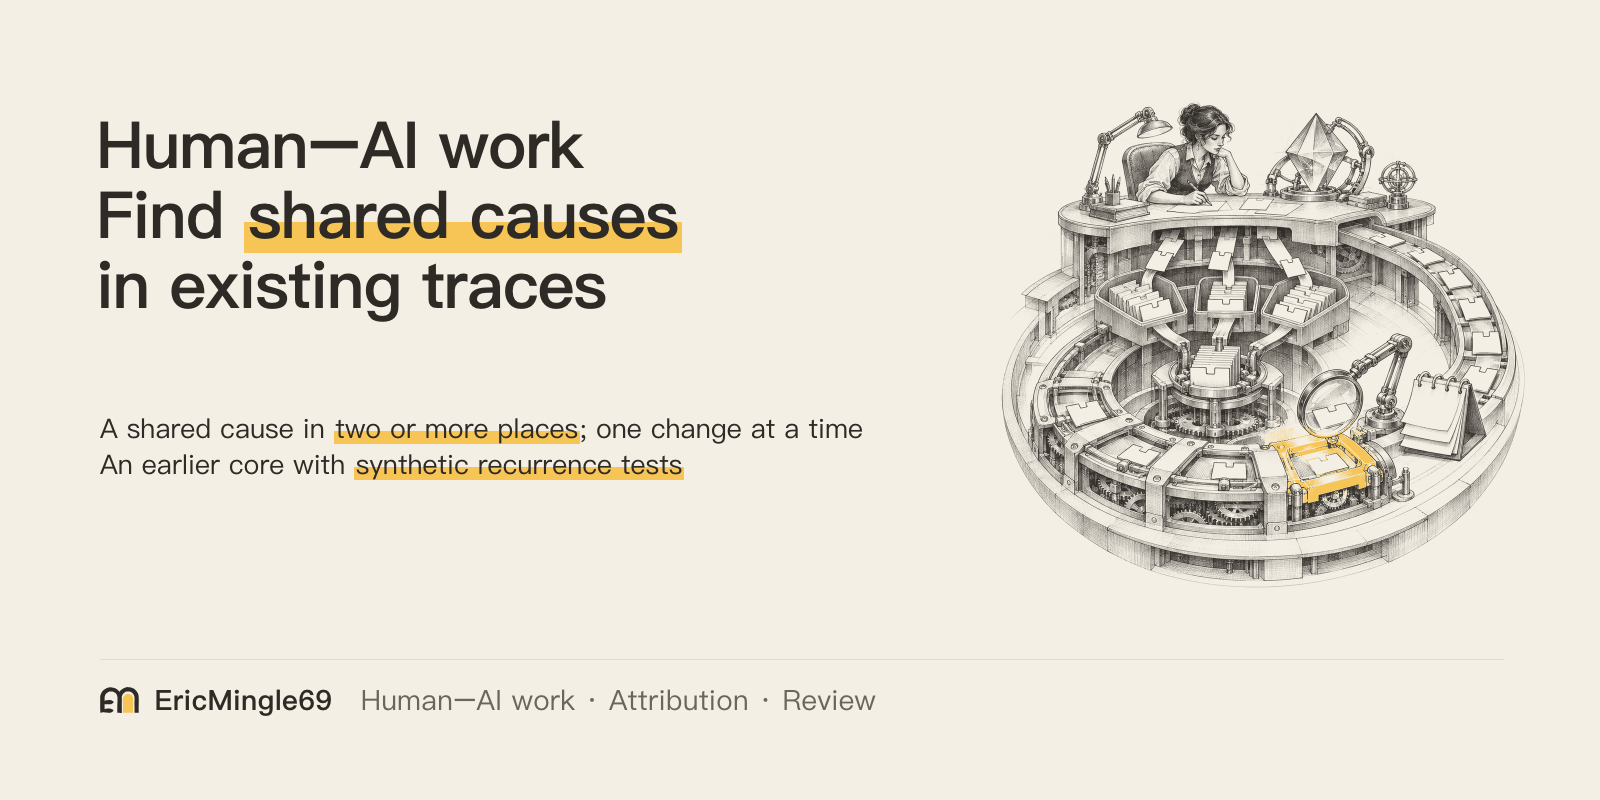
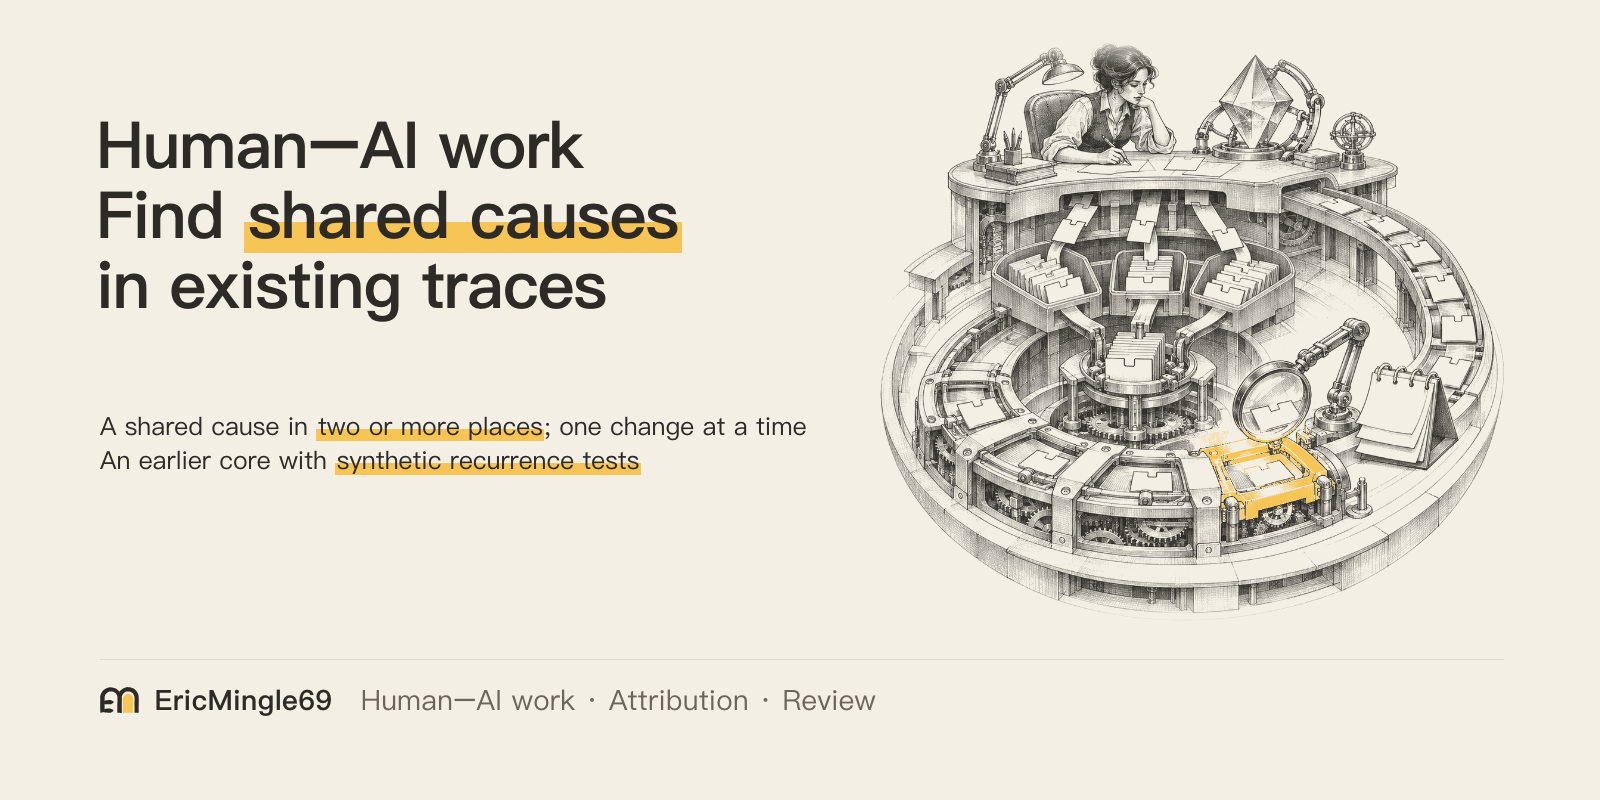
Docs: edge-fitted cover illustration (0.1.5)

Changed region(s): [[0.0625, 0.0312, 0.9688, 0.7812]]

diff --git a/scripts/publication_check.py b/scripts/publication_check.py
@@ -24,7 +24,7 @@ from urllib.parse import parse_qsl, urlsplit
 MANIFEST = "PUBLIC-FILES.json"
 CONFIG = "PUBLICATION.toml"
 # Reviewed, generated covers only; other binary files remain forbidden.
[2 lines of base64/hex data omitted]
 MAX_FILES = 3000
 MAX_BYTES = 2_000_000
 DENIED_DIRS = frozenset({

diff --git a/src/astra_harness/__init__.py b/src/astra_harness/__init__.py
@@ -1,2 +1,2 @@
 """Astra Harness public research core; no automatic host integration."""
-__version__ = "0.1.4"
+__version__ = "0.1.5"

diff --git a/README.en.md b/README.en.md
@@ -8,7 +8,7 @@
 <p align="center">
 <img alt="license MIT" src="https://img.shields.io/badge/license-MIT-F6C555?style=flat-square&labelColor=2E2A26">
 <img alt="python 3.11%2B" src="https://img.shields.io/badge/python-3.11%2B-6B655C?style=flat-square&labelColor=2E2A26">
-<img alt="version 0.1.4" src="https://img.shields.io/badge/version-0.1.4-6B655C?style=flat-square&labelColor=2E2A26">
+<img alt="version 0.1.5" src="https://img.shields.io/badge/version-0.1.5-6B655C?style=flat-square&labelColor=2E2A26">
 <a href="https://github.com/Ming-Sir-69/astra-harness/actions/workflows/research-core.yml"><img alt="Synthetic research CI" src="https://img.shields.io/github/actions/workflow/status/Ming-Sir-69/astra-harness/research-core.yml?branch=main&style=flat-square&labelColor=2E2A26&color=A8A196"></a>
 </p>
 
@@ -31,7 +31,7 @@ No extra logging; the workflow uses the traces that already exist:
 <details>
 <summary>Public capabilities and boundaries</summary>
 
-| Capability | Public 0.1.4 | Boundary |
+| Capability | Public 0.1.5 | Boundary |
 |---|---|---|
 | HCD event protocol and SQLite ledger | Implemented | Explicit data root; bounded inputs; idempotency; ownership/epoch checks |
 | Acceptance and ordinal distance | Implemented | Plan/result separate; evidence required; later corrections and expiry invalidate stale state |

diff --git a/README.md b/README.md
@@ -8,7 +8,7 @@
 <p align="center">
 <img alt="license MIT" src="https://img.shields.io/badge/license-MIT-F6C555?style=flat-square&labelColor=2E2A26">
 <img alt="python 3.11%2B" src="https://img.shields.io/badge/python-3.11%2B-6B655C?style=flat-square&labelColor=2E2A26">
-<img alt="version 0.1.4" src="https://img.shields.io/badge/version-0.1.4-6B655C?style=flat-square&labelColor=2E2A26">
+<img alt="version 0.1.5" src="https://img.shields.io/badge/version-0.1.5-6B655C?style=flat-square&labelColor=2E2A26">
 <a href="https://github.com/Ming-Sir-69/astra-harness/actions/workflows/research-core.yml"><img alt="Synthetic research CI" src="https://img.shields.io/github/actions/workflow/status/Ming-Sir-69/astra-harness/research-core.yml?branch=main&style=flat-square&labelColor=2E2A26&color=A8A196"></a>
 </p>
 
@@ -31,7 +31,7 @@
 <details>
 <summary>公开能力与边界</summary>
 
-| 能力 | 公共 0.1.4 | 边界 |
+| 能力 | 公共 0.1.5 | 边界 |
 |---|---|---|
 | HCD 事件协议与 SQLite 账本 | 已实现 | 显式数据根、输入限额、幂等、owner/epoch 检查 |
 | 接受状态与序数距离 | 已实现 | 方案/成品分开；需证据；后续纠偏和过期使旧状态失效 |

diff --git a/docs/evolution/0.1.5.md b/docs/evolution/0.1.5.md
@@ -1,0 +1,19 @@
+# Public research core 0.1.5
+
+## Problem
+Some cover illustrations showed a visible square boundary where the drawing ran to the image edge, and illustration sizes were tuned per repository.
+
+## Architecture and interface
+Replace the four covers. The illustration is cropped to its content, placed by one fixed rule (hard boundary, fade band, safe area) shared across repositories, and any side whose drawing reaches the image edge fades into the background. Update the pinned cover hashes; runtime interfaces are unchanged.
+
+## Decisions and alternatives
+No outpainting or regeneration; the drawing itself is unchanged apart from the edge fade. Parameters are fixed in one shared file and checked by script.
+
+## Research hypotheses
+None; this is a presentation change.
+
+## Validation and limits
+A scripted check confirms size, exact background, divider, signature, text column, hard boundary, no edge-touching lines and zero paper tint. Run the publication and test suites.
+
+## Next
+None.

diff --git a/CHANGELOG.md b/CHANGELOG.md
@@ -1,5 +1,9 @@
 # Changelog
 
+## [0.1.5] - 2026-11-18
+
+Replace all four covers: the illustration is cropped to its content and sized by one shared rule; sides where the drawing runs to the image edge fade into the background, so no square boundary shows. Runtime behavior is unchanged.
+
 ## [0.1.4] - 2026-11-17
 
 Replace the cover signature and bilingual README footer with the EM logo. Add light/dark inline logo assets, remove the old star mark from authorship notices and legacy banners, and update the four reviewed cover hashes. Runtime behavior is unchanged.
